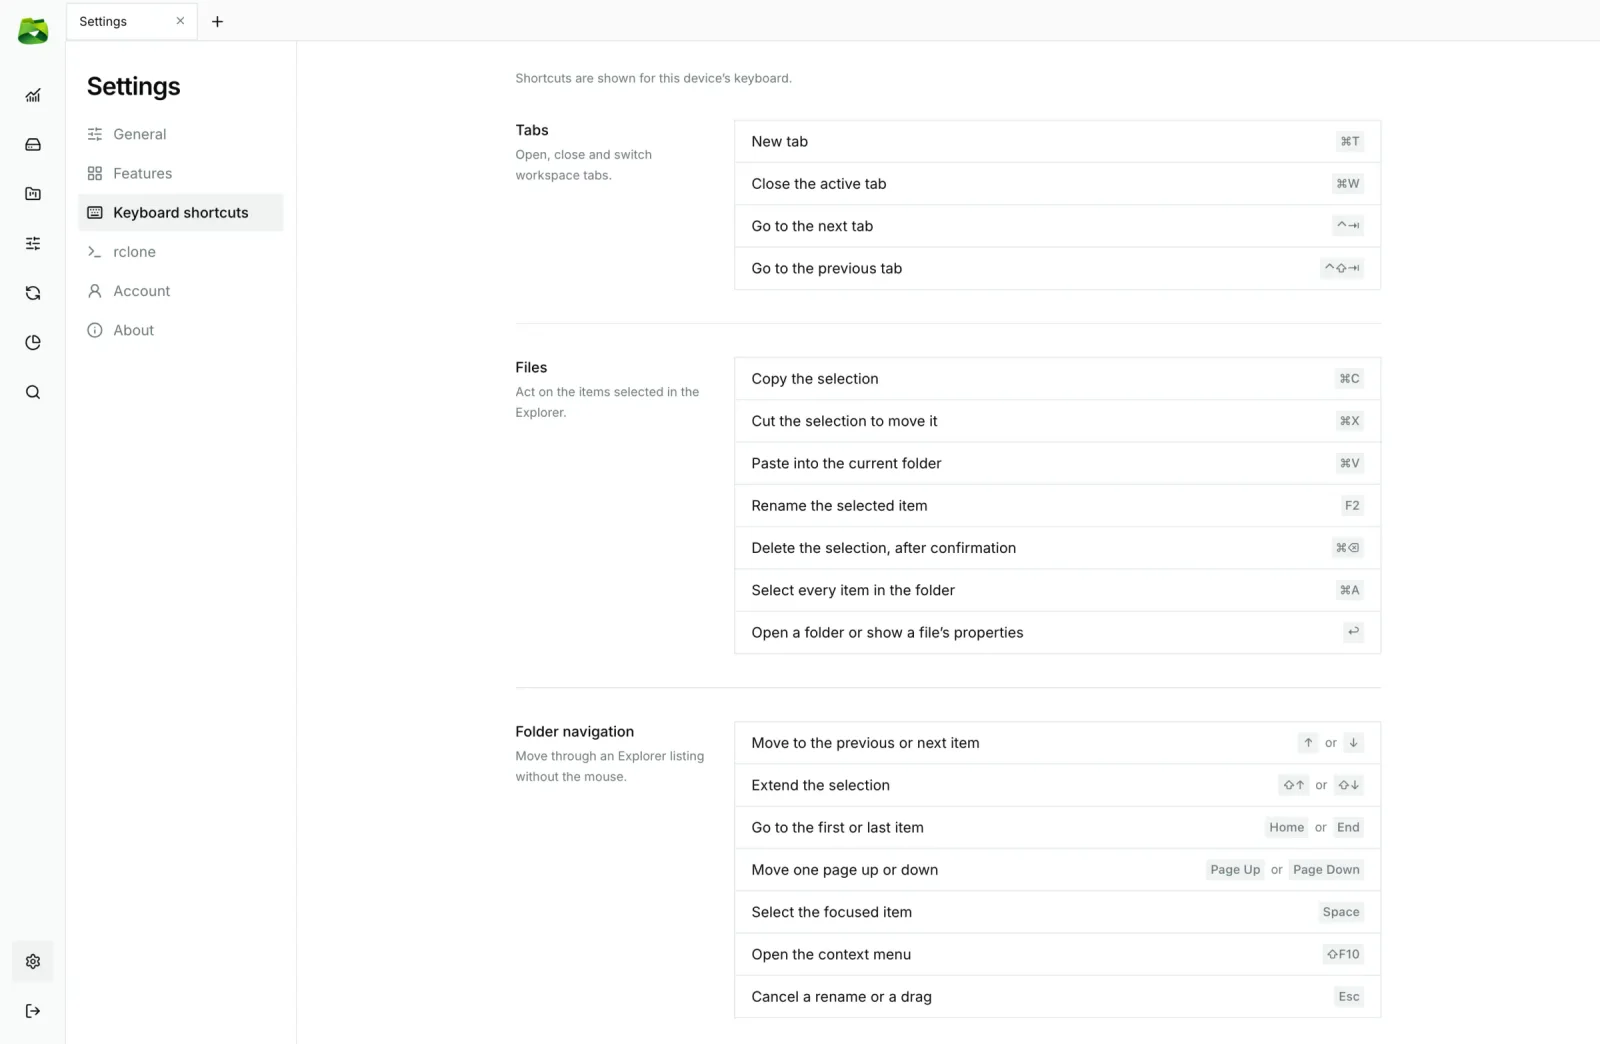
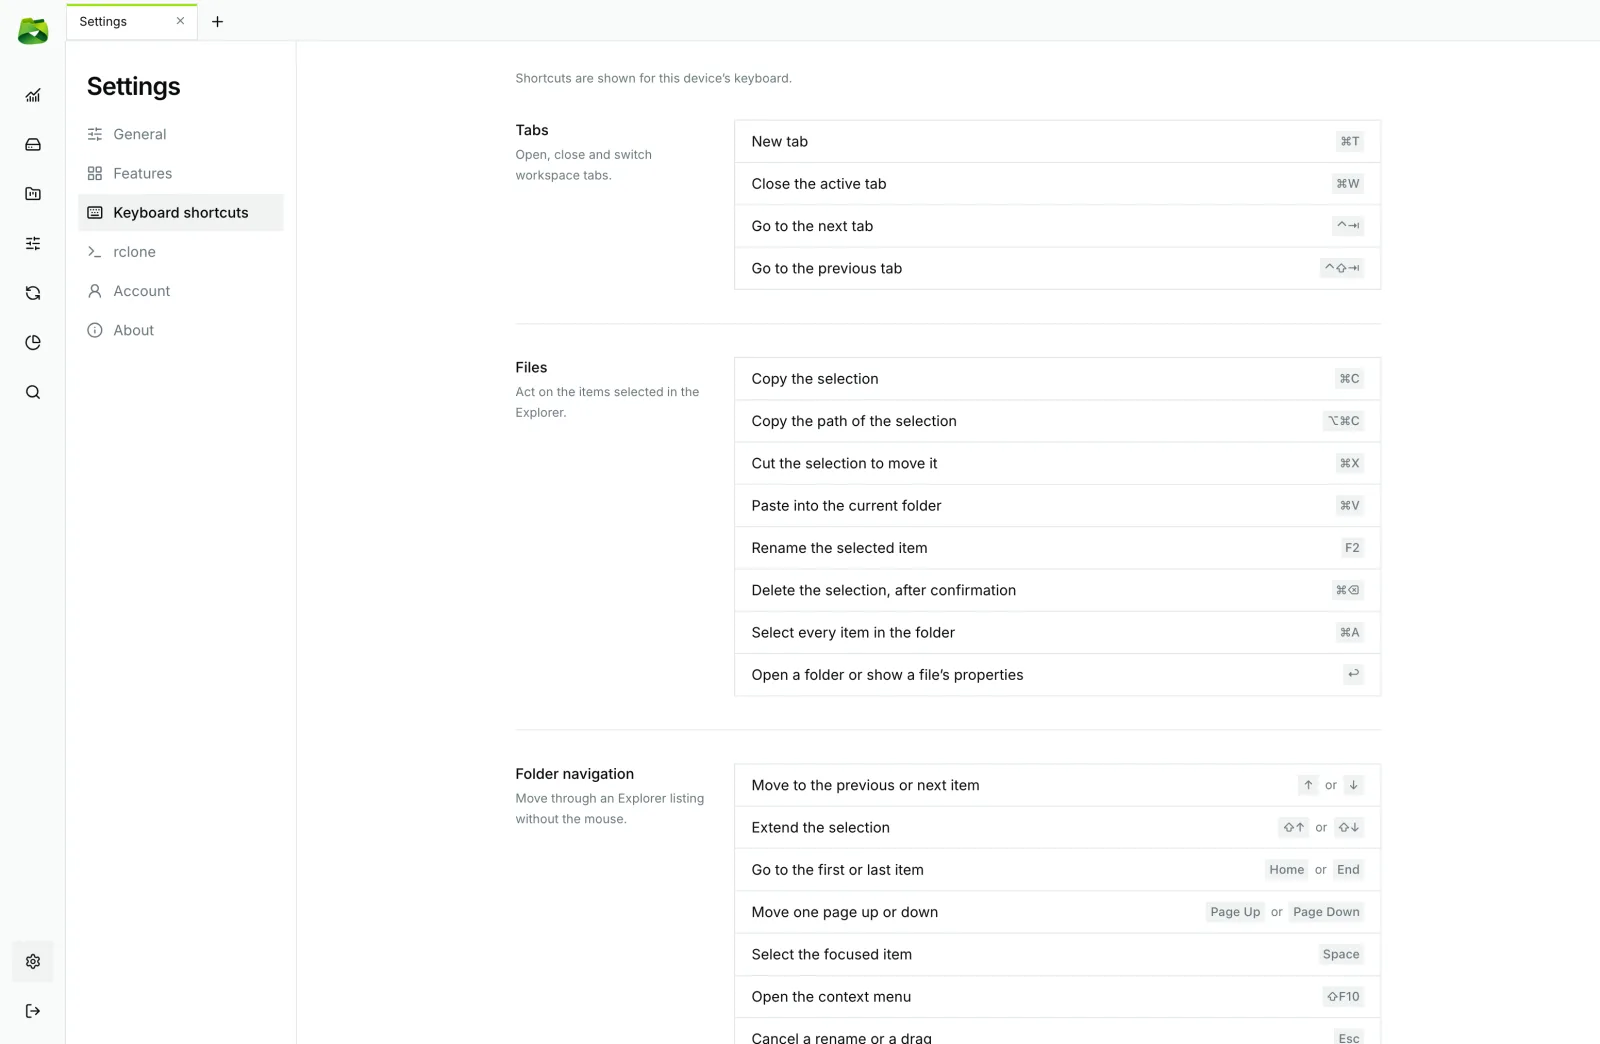
docs(readme): refresh every screenshot and present the 1.2 and 1.3 features
Recaptures all README screenshots from 1.3.0 in light and dark, and adds file
details (MediaInfo, hashes), folder sizes, storage capacity forecasts,
Operations and Space Analysis cleanup.

diff --git a/README.md b/README.md
@@ -44,7 +44,7 @@ https://github.com/user-attachments/assets/7ac566d6-2f84-4c23-afdf-7bea404a6d4b
 
 <picture>
   <source media="(prefers-color-scheme: dark)" srcset="assets/readme/hero-explorer-dark.webp" />
-  <img src="assets/readme/hero-explorer-light.webp" alt="Ultra Explorer dual-pane explorer: OneDrive on the left, a NAS on the right" />
+  <img src="assets/readme/hero-explorer-light.webp" alt="Ultra Explorer dual-pane explorer: Nextcloud on the left, a NAS on the right" />
 </picture>
 
 ## Contents
@@ -53,9 +53,11 @@ https://github.com/user-attachments/assets/7ac566d6-2f84-4c23-afdf-7bea404a6d4b
 - [Features](#features)
   - [Dual-pane explorer](#dual-pane-explorer)
   - [40+ storages](#40-storages)
-  - [Transfer queue](#transfer-queue)
+  - [File details and media info](#file-details-and-media-info)
+  - [Storage capacity and forecasts](#storage-capacity-and-forecasts)
+  - [Operations](#operations)
   - [Synchronizations](#synchronizations)
-  - [Space analysis](#space-analysis)
+  - [Space analysis and cleanup](#space-analysis-and-cleanup)
   - [Multi-cloud search](#multi-cloud-search)
   - [Dashboard, settings and shortcuts](#dashboard-settings-and-shortcuts)
   - [Docker, NAS and phone](#docker-nas-and-phone)
@@ -73,7 +75,8 @@ Ultra Explorer puts all of them in one window.
 - **Two panes, any two storages.** Drag files from OneDrive to your NAS, or between two S3 buckets.
 - **Nothing changes by surprise.** Conflicts always ask, and every synchronization can be previewed
   before it runs.
-- **See where your space goes.** Four interactive maps of any folder, on any storage.
+- **See where your space goes.** Four interactive maps of any folder, on any storage, and a forecast
+  of when each storage will be full.
 - **Native and light.** A Rust core with a native desktop app, or a self-hosted Docker server.
 - **Private by design.** No telemetry. Your keys stay in `rclone.conf` on your machine and your files
   never pass through our servers.
@@ -89,7 +92,11 @@ transfer them, from local to cloud or between two remote storages.
 - **Drag and drop transfers** between any two storages
 - **No silent overwrites:** every conflict asks you to overwrite, skip or keep both
 - **Tabs** with saved paths and filters
-- **Recursive folder size** on demand
+- **Folder sizes in one click:** click the dash in the Size column to total a folder, subfolders
+  included, then click the size to see how many objects it holds
+- **Copy path** with Option (Shift on Windows and Linux) in the context menu, and paste a path into
+  the address bar to go straight back to it
+- **Resizable columns** in the Details view, remembered per pane
 
 <table>
   <tr>
@@ -101,14 +108,14 @@ transfer them, from local to cloud or between two remote storages.
     </td>
     <td width="50%">
       <picture>
-        <source media="(prefers-color-scheme: dark)" srcset="assets/readme/dashboard-dark.webp" />
-        <img src="assets/readme/dashboard-light.webp" alt="Dashboard with storages and activity" />
+        <source media="(prefers-color-scheme: dark)" srcset="assets/readme/explorer-folder-size-dark.webp" />
+        <img src="assets/readme/explorer-folder-size-light.webp" alt="A folder's total size and object count in the Details view" />
       </picture>
     </td>
   </tr>
   <tr>
     <td align="center">Copy, move and organize with the context menu</td>
-    <td align="center">Storage health and transfer activity at a glance</td>
+    <td align="center">Total any folder's size, subfolders included</td>
   </tr>
 </table>
 
@@ -141,15 +148,73 @@ and keep using it from the command line.
 
 See the full list in [Supported storages](#supported-storages).
 
-### Transfer queue
+### File details and media info
 
-Every copy and move goes into a persistent FIFO queue that never blocks the interface. Follow live
-throughput, inspect each job (route, progress, speed, timeline), and pick up where you left off after
-a restart: the queue is stored in SQLite.
+Open the Properties of a video, audio or image file to see inside it without downloading it, on any
+storage. The **MediaInfo** tab shows the container, duration and bit rate, then each track: codec,
+resolution, frame rate, HDR, channels and language. Switch to MediaInfo's own Detailed, Text, JSON
+or XML report, ready to copy. Any file also shows its **MD5, SHA-1 and SHA-256** hashes.
+
+<table>
+  <tr>
+    <td width="50%">
+      <picture>
+        <source media="(prefers-color-scheme: dark)" srcset="assets/readme/explorer-media-info-dark.webp" />
+        <img src="assets/readme/explorer-media-info-light.webp" alt="MediaInfo tab of a 4K HDR film" />
+      </picture>
+    </td>
+    <td width="50%">
+      <picture>
+        <source media="(prefers-color-scheme: dark)" srcset="assets/readme/explorer-file-hashes-dark.webp" />
+        <img src="assets/readme/explorer-file-hashes-light.webp" alt="MD5, SHA-1 and SHA-256 hashes of a file" />
+      </picture>
+    </td>
+  </tr>
+  <tr>
+    <td align="center">Codecs and tracks, read where the file lives</td>
+    <td align="center">Integrity hashes, ready to copy</td>
+  </tr>
+</table>
+
+### Storage capacity and forecasts
+
+Ultra Explorer keeps a usage history for each storage and tells you how much it grew this week and
+when it will be full. The capacity window charts the last 7, 30 or 90 days with the days it reaches
+80, 90 and 100 %, and the dashboard ranks your storages by how soon they will be full.
+
+For a NAS share or server that does not report its size, enter the size of its disk: the app then
+measures what its folders use and shows the free space.
+
+<table>
+  <tr>
+    <td width="50%">
+      <picture>
+        <source media="(prefers-color-scheme: dark)" srcset="assets/readme/storages-capacity-dark.webp" />
+        <img src="assets/readme/storages-capacity-light.webp" alt="Capacity window of a NAS with its usage chart and the days it fills up" />
+      </picture>
+    </td>
+    <td width="50%">
+      <picture>
+        <source media="(prefers-color-scheme: dark)" srcset="assets/readme/dashboard-dark.webp" />
+        <img src="assets/readme/dashboard-light.webp" alt="Dashboard ranking storages by how soon they will be full" />
+      </picture>
+    </td>
+  </tr>
+  <tr>
+    <td align="center">Usage over 7, 30 or 90 days, and when it will be full</td>
+    <td align="center">Every storage at a glance on the dashboard</td>
+  </tr>
+</table>
+
+### Operations
+
+Copies, moves, uploads and synchronizations run in the background and are all listed under
+**Operations**, in a queue that never blocks the interface. Follow live throughput, inspect each job
+(route, progress, speed, timeline), and pick up where you left off after a restart.
 
 <picture>
   <source media="(prefers-color-scheme: dark)" srcset="assets/readme/transfers-workspace-dark.webp" />
-  <img src="assets/readme/transfers-workspace-light.webp" alt="Transfer queue with the job inspector" />
+  <img src="assets/readme/transfers-workspace-light.webp" alt="Operations list with the job inspector" />
 </picture>
 
 ### Synchronizations
@@ -184,10 +249,14 @@ preview.
   </tr>
 </table>
 
-### Space analysis
+### Space analysis and cleanup
 
 Scan any folder, on any storage, and explore it as a **sunburst**, **treemap**, **circle pack** or
 **tree**. Zoom into a folder in one click and jump straight to it in the explorer.
+
+To free space, drag a folder from the map to the bin, or right-click it and choose **Set aside**. The
+map shows at once the space you would free, one click puts a folder back, and the folders set aside
+are deleted only after you confirm.
 
 <table>
   <tr>
@@ -210,6 +279,11 @@ Scan any folder, on any storage, and explore it as a **sunburst**, **treemap**, 
   </tr>
 </table>
 
+<picture>
+  <source media="(prefers-color-scheme: dark)" srcset="assets/readme/space-analysis-cleanup-dark.webp" />
+  <img src="assets/readme/space-analysis-cleanup-light.webp" alt="Folders set aside in Space analysis, with the space they would free" />
+</picture>
+
 ### Multi-cloud search
 
 Search up to eight storages at once, in parallel. Start from a preset (documents, images,
@@ -223,7 +297,7 @@ the exact location of every file.
 
 ### Dashboard, settings and shortcuts
 
-- **Dashboard:** connected storages, quotas, live throughput and recent activity.
+- **Dashboard:** connected storages, how soon each will be full, live throughput and recent activity.
 - **Light, dark or system theme.**
 - **10 languages**, switched without reloading: English, French, German, Spanish, Italian,
   Portuguese, Chinese, Japanese, Korean and Russian.
@@ -347,7 +421,7 @@ one with access to them.
 ## Free, Pro and Lifetime
 
 Ultra Explorer is free to download and use. **Pro** (subscription) and **Lifetime** (one-time
-purchase) unlock multi-cloud search, space analysis and scheduled synchronizations.
+purchase) unlock multi-cloud search, space analysis, scheduled synchronizations and the MediaInfo tab.
 See [ultra-explorer.app/pricing](https://ultra-explorer.app/pricing).
 
 ## Privacy and security
